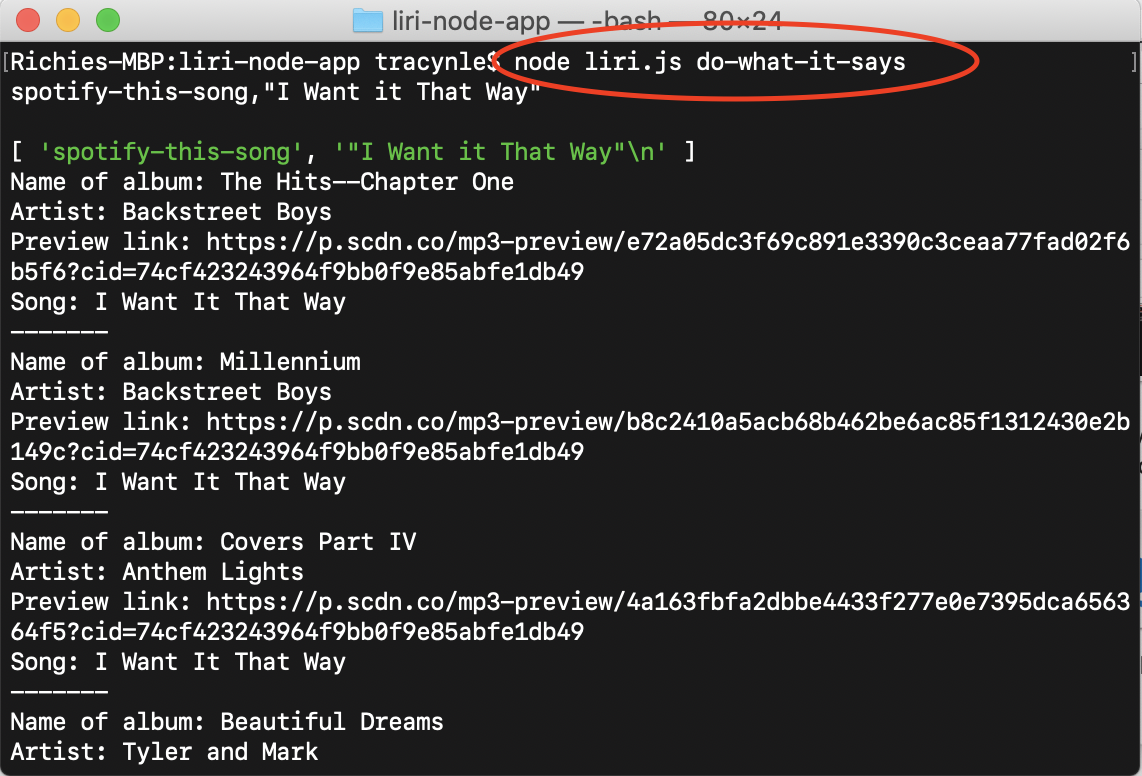
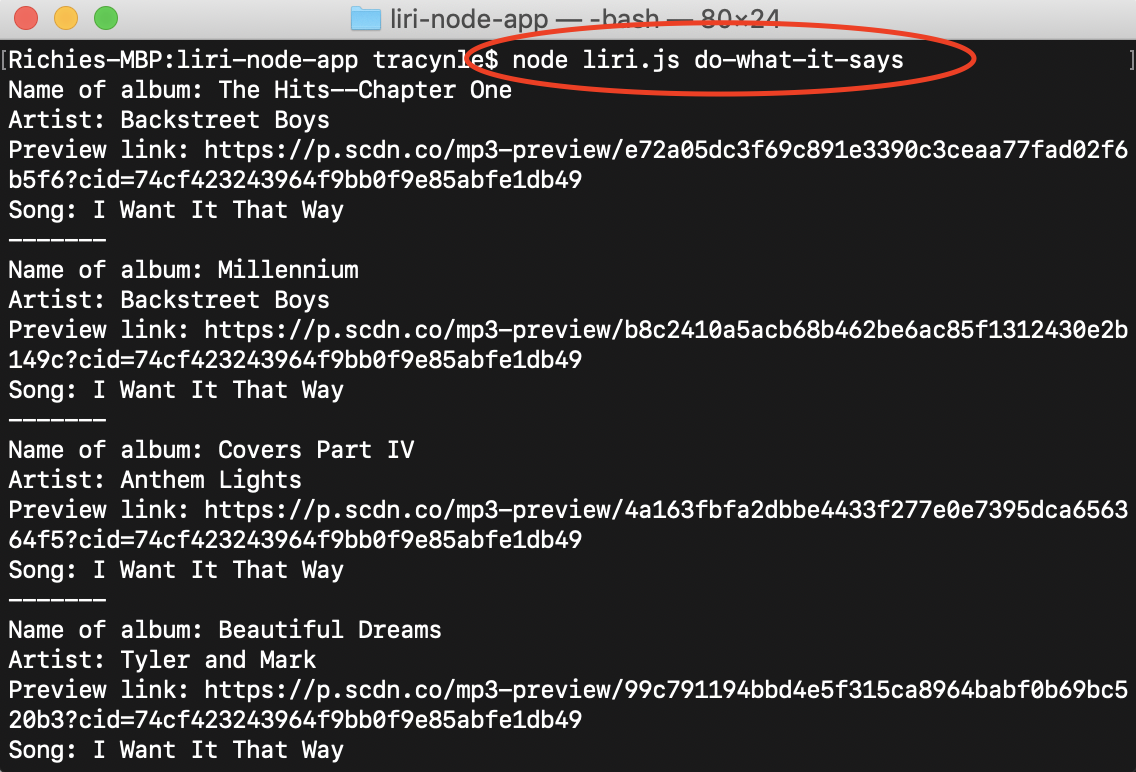
Edited Readme

Changed region(s): [[0.0, 0.0, 1.0, 1.0]]

diff --git a/liri.js b/liri.js
@@ -11,14 +11,11 @@ var fs = require("fs");
 var thirdCommand = process.argv[2];
 var fourthCommand = process.argv[3];
 
-// Spotfy search
 function spotifySearch(song) {
   spotify.search({ type: 'track', query: song }, function(err, response) {
-   
     if (err) {
       return console.log('Error occurred: ' + err);
     }
-    
     var items = response.tracks.items;
     for(var i = 0; i < items.length; i++ ) {
       // Name of the album (works)
@@ -36,17 +33,15 @@ function spotifySearch(song) {
       // Divider
       console.log("-------");
     }
-   
   })
 }
-// The Sign default search
+// The Sign default search if no fourth parameter was given
 function theSignSearch() {
   spotify.search({ type: 'track', query: "The Sign" }, function(err, response) {
    
     if (err) {
       return console.log('Error occurred: ' + err);
     }
-    
     var items = response.tracks.items;
     for(var i = 0; i < items.length; i++ ) {
       if ("The Sign" === items[i].name) {
@@ -68,11 +63,11 @@ function theSignSearch() {
     }
   })
 }
-// Movie search
 function movieSearch(movieName){
   axios.get("http://www.omdbapi.com/?t=" + movieName + "&apikey=b5f5e0a1")
     .then(function(response){
       var jsonData = response.data;
+      // Exception handling; if user did not put the correct movie title, this will show
       if (jsonData.Error === 'Movie not found!') {
         console.log(jsonData.Error);
         return;
@@ -113,6 +108,7 @@ if (thirdCommand === 'concert-this') {
 } 
 else if (thirdCommand === 'spotify-this-song') {
   if (fourthCommand === undefined){
+    // If no fourth parameter was included, function will run and default search the song 'The Sign'
     theSignSearch();
     return;
   }
@@ -120,20 +116,20 @@ else if (thirdCommand === 'spotify-this-song') {
 } 
 else if (thirdCommand === 'movie-this') {
   if (fourthCommand === undefined) {
+    // If no movie search was inputed, this will be the default search
     console.log("If you haven't watched 'Mr. Nobody,' then you should: http://www.imdb.com/title/tt0485947/ \nIt's on Netflix!");
   } else {
     movieSearch(fourthCommand);
   }
 } 
-// fs node package
+// fs node package 
 else if (thirdCommand === 'do-what-it-says') {
   fs.readFile("random.txt", "utf8", function(error, data){
     if (error) {
       return console.log('Problem reading the file: ', error);
     }
-    console.log(data);
     var dataArr = data.split(",");
-    console.log(dataArr);
+    // Grabs data from the random.txt file from its array
     if (dataArr[0] === "spotify-this-song") {
       spotifySearch(dataArr[1]);
     }
